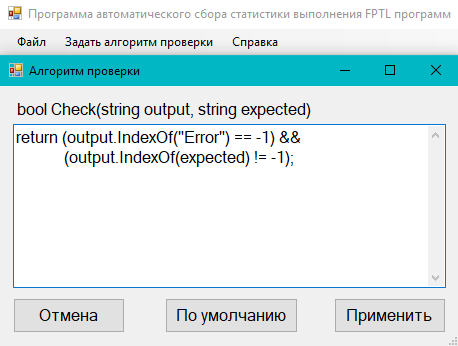
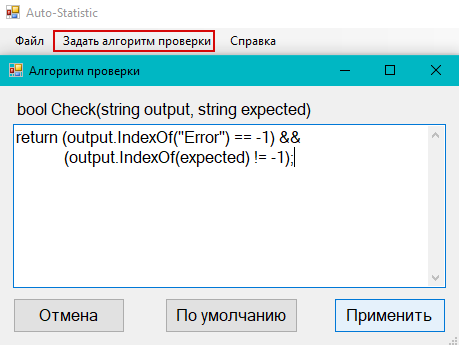
UI fixes, images

diff --git a/Main.Designer.cs b/Main.Designer.cs
@@ -151,10 +151,10 @@
             // buttonAddExecutors
             // 
             this.buttonAddExecutors.Anchor = ((System.Windows.Forms.AnchorStyles)((System.Windows.Forms.AnchorStyles.Top | System.Windows.Forms.AnchorStyles.Right)));
-            this.buttonAddExecutors.Location = new System.Drawing.Point(468, 35);
+            this.buttonAddExecutors.Location = new System.Drawing.Point(446, 35);
             this.buttonAddExecutors.Margin = new System.Windows.Forms.Padding(4, 5, 4, 5);
             this.buttonAddExecutors.Name = "buttonAddExecutors";
-            this.buttonAddExecutors.Size = new System.Drawing.Size(236, 29);
+            this.buttonAddExecutors.Size = new System.Drawing.Size(258, 29);
             this.buttonAddExecutors.TabIndex = 18;
             this.buttonAddExecutors.Text = "Добавить исполняемые файлы";
             this.buttonAddExecutors.UseVisualStyleBackColor = true;
@@ -177,10 +177,10 @@
             // buttonCooseProgramFiles
             // 
             this.buttonCooseProgramFiles.Anchor = ((System.Windows.Forms.AnchorStyles)((System.Windows.Forms.AnchorStyles.Top | System.Windows.Forms.AnchorStyles.Right)));
-            this.buttonCooseProgramFiles.Location = new System.Drawing.Point(464, 147);
+            this.buttonCooseProgramFiles.Location = new System.Drawing.Point(446, 147);
             this.buttonCooseProgramFiles.Margin = new System.Windows.Forms.Padding(4, 5, 4, 5);
             this.buttonCooseProgramFiles.Name = "buttonCooseProgramFiles";
-            this.buttonCooseProgramFiles.Size = new System.Drawing.Size(240, 29);
+            this.buttonCooseProgramFiles.Size = new System.Drawing.Size(258, 29);
             this.buttonCooseProgramFiles.TabIndex = 16;
             this.buttonCooseProgramFiles.Text = "Добавить файлы программ";
             this.buttonCooseProgramFiles.UseVisualStyleBackColor = true;
@@ -505,7 +505,7 @@
             // buttonClearExecutions
             // 
             this.buttonClearExecutions.Anchor = ((System.Windows.Forms.AnchorStyles)((System.Windows.Forms.AnchorStyles.Top | System.Windows.Forms.AnchorStyles.Right)));
-            this.buttonClearExecutions.Location = new System.Drawing.Point(304, 35);
+            this.buttonClearExecutions.Location = new System.Drawing.Point(283, 35);
             this.buttonClearExecutions.Margin = new System.Windows.Forms.Padding(4, 5, 4, 5);
             this.buttonClearExecutions.Name = "buttonClearExecutions";
             this.buttonClearExecutions.Size = new System.Drawing.Size(155, 29);
@@ -517,7 +517,7 @@
             // buttonClearProgramFiles
             // 
             this.buttonClearProgramFiles.Anchor = ((System.Windows.Forms.AnchorStyles)((System.Windows.Forms.AnchorStyles.Top | System.Windows.Forms.AnchorStyles.Right)));
-            this.buttonClearProgramFiles.Location = new System.Drawing.Point(300, 147);
+            this.buttonClearProgramFiles.Location = new System.Drawing.Point(283, 147);
             this.buttonClearProgramFiles.Margin = new System.Windows.Forms.Padding(4, 5, 4, 5);
             this.buttonClearProgramFiles.Name = "buttonClearProgramFiles";
             this.buttonClearProgramFiles.Size = new System.Drawing.Size(155, 29);
@@ -611,7 +611,7 @@
             this.Margin = new System.Windows.Forms.Padding(4, 5, 4, 5);
             this.MinimumSize = new System.Drawing.Size(735, 700);
             this.Name = "Main";
-            this.Text = "Программа автоматического сбора статистики выполнения FPTL программ";
+            this.Text = "Auto-Statistic";
             this.FormClosing += new System.Windows.Forms.FormClosingEventHandler(this.Form1_FormClosing);
             this.menuStrip1.ResumeLayout(false);
             this.menuStrip1.PerformLayout();

diff --git a/Main.cs b/Main.cs
@@ -78,7 +78,7 @@ namespace Auto_Statistic
                     Executor.ExecutionParameters state = (Executor.ExecutionParameters)formatter.Deserialize(fs);
                     
                     if (state.launchNum <= 0) state.launchNum = 1;
-                    if (state.variance < 0) state.variance = 0;
+                    if (state.variance < 0) state.variance = 0.0005f;
                     if (state.backProcLimit <= 0 || state.backProcLimit > 100) state.backProcLimit = 100;
 
                     if (state.executionFilesPaths == null) state.executionFilesPaths = new List<string>();

diff --git a/Executor.cs b/Executor.cs
@@ -75,7 +75,7 @@ namespace Auto_Statistic
             public List<string> referenceResults = new List<string>();
             public string checkAlgorithmText = defaultAlg;
             public ushort launchNum = 10;
-            public float variance = 0;
+            public float variance = 0.0005f;
             public byte backProcLimit = 10;
             public bool prohibitUsePageFile = true;
             public bool Interpr = true;
